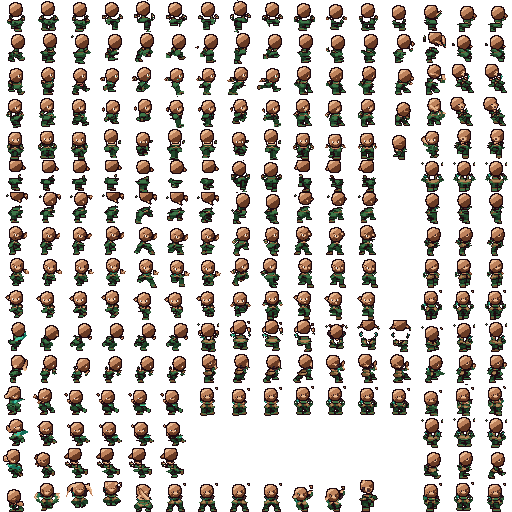
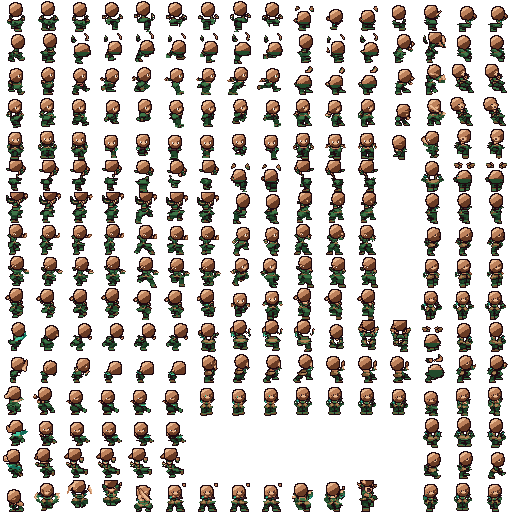
Class heroes walk down with their face on, and are drawn 15% larger
make_skins.py finds the head from the face, the topmost patch of skin, instead of the sprite's top, which the original's hair bun lifts in two of the four walk-down frames; the face mask, the neck line and the bald head all follow it, so the face is never cut or painted over. Specks of three pixels or fewer that touch nothing are removed with their outline. The game draws a class's sheet HERO_SKIN_DRAW_SCALE (1.15) larger about the feet; the body's size is unchanged.

diff --git a/misc/hero_skins/make_skins.py b/misc/hero_skins/make_skins.py
@@ -296,31 +296,41 @@ def bald_head(cell):
     cx, cy = h
     cell = cell.copy()
     yy, xx = np.mgrid[0:32, 0:32]
-    above_neck = yy + 0.5 < cy + NECK_BELOW_HEAD + 1
-    old = ((xx + 0.5 - cx) / 10.5) ** 2 + ((yy + 0.5 - cy) / 9.5) ** 2 <= 1.0
-    old &= above_neck
     skin = is_col(cell, SKIN)
+    top = sprite_top(cell)
     # NOTE: the sword's streak can cross the head; it stays
     streak = np.zeros((32, 32), bool)
-    top = sprite_top(cell)
+    wide = ((xx + 0.5 - cx) / 10.5) ** 2 + ((yy + 0.5 - cy) / 9.5) ** 2 <= 1.0
     for patch in components(skin):
-        if is_streak(patch, -99, old):
+        if is_streak(patch, -99, wide):
             for y, x in patch:
                 streak[y, x] = True
-    face = (skin | is_col(cell, ACCENT + [WHITE])) & old & ~streak
+    # NOTE: the face is the topmost patch of skin; the head is found from
+    # it, since a hair bun sticking up throws the sprite's top off
+    face_patch = None
+    for patch in components(skin & ~streak):
+        if len(patch) >= 4 and min(y for y, x in patch) <= top + 18:
+            if face_patch is None or min(y for y, x in patch) < min(y for y, x in face_patch):
+                face_patch = patch
+    if face_patch:
+        fy = np.array([y for y, x in face_patch])
+        fx = np.array([x for y, x in face_patch])
+        cy = fy.mean() + 0.5 - BALD_FACE_LIFT - BALD_DROP
+        neck = fy.max() + 1.5
+        box = (yy >= fy.min() - 2) & (yy <= fy.max()) & (xx >= fx.min() - 2) & (xx <= fx.max() + 2)
+        face = box & (skin | is_col(cell, ACCENT + [WHITE])) & ~streak
+    else:
+        neck = cy + NECK_BELOW_HEAD + 1
+        face = np.zeros((32, 32), bool)
+    old = ((xx + 0.5 - cx) / 10.5) ** 2 + ((yy + 0.5 - cy) / 9.5) ** 2 <= 1.0
+    old &= yy + 0.5 < neck
+    face &= yy + 0.5 < neck
     keep = cell.copy()
     gone = old & ~streak & (cell[..., 3] > 0)
     cell[gone] = 0
-    # NOTE: the head goes where the face is, the face on its lower half; a
-    # hair bun sticking up would put it too high. With no face (seen from
-    # behind) it sits a little under the hair's centre
+    # NOTE: the head sits where the face says, the face on its lower half;
+    # seen from behind (no face) a little under the hair's centre
     by = cy + BALD_DROP
-    faces = [p for p in components(skin & ~streak & old)
-             if sum(1 for y, x in p if old[y, x]) * 2 > len(p)]
-    if faces:
-        f = max(faces, key=len)
-        if len(f) >= 4:
-            by = sum(y for y, x in f) / len(f) + 0.5 - BALD_FACE_LIFT
     bx = cx
     nx = (xx + 0.5 - bx) / BALD_RX
     ny = (yy + 0.5 - by) / BALD_RY
@@ -349,6 +359,27 @@ def bald_head(cell):
     for src, mark in zip(SKIN, STREAK):
         cell[streak & is_col(keep, [src])] = mark + (255,)
     return cell
+
+
+# NOTE: a detached bit this small is a left-over speck (a headphone's
+# edge, a strand), not part of the hero
+SPECK_PIXELS = 3
+
+
+def despeck(cell):
+    """removes tiny bits that touch nothing else, with their outline"""
+    op = cell[..., 3] > 0
+    parts = components(op)
+    if len(parts) < 2:
+        return cell
+    biggest = max(len(p) for p in parts)
+    out = cell.copy()
+    for patch in parts:
+        body = [(y, x) for y, x in patch if tuple(cell[y, x, :3]) != OUTLINE]
+        if len(patch) < biggest and len(body) <= SPECK_PIXELS:
+            for y, x in patch:
+                out[y, x] = 0
+    return out
 
 
 def class_cell(cell, pal):
@@ -414,7 +445,7 @@ def class_cell(cell, pal):
         put(ACCENT[1], pants[1], legs)
         for s in SKIN:
             put(s, pants[1], legs)
-    return out
+    return despeck(out)
 
 
 def class_sheet(sheet, pal):

diff --git a/code/client/heroes/hero_skins.cpp b/code/client/heroes/hero_skins.cpp
@@ -4,7 +4,7 @@
    the class and with the hair cut short (misc/hero_skins/make_skins.py),
    loaded from heroes/<class>.png. So only the texture changes: the frames
    are picked by the original's animation table (sim/animations.cpp),
-   with its timing, facings and size. A sheet that fails to load leaves
+   with its timing and facings, drawn HERO_SKIN_DRAW_SCALE larger. A sheet that fails to load leaves
    that class in the original hero. */
 
 #define STB_IMAGE_IMPLEMENTATION
@@ -15,6 +15,10 @@
 #pragma warning(disable: 4244 4456 4457 4701 4702 4996)
 #include "../../third_party/stb_image/stb_image.h"
 #pragma warning(pop)
+
+// NOTE(zoubir): a class's hero is drawn this much larger than the
+// original, about the feet; only the picture grows, not the body
+#define HERO_SKIN_DRAW_SCALE 1.15f
 
 // NOTE(zoubir): the original hero's sheet layout (test_asset_builder.cpp)
 #define HERO_SHEET_PIXELS 512
@@ -75,6 +79,18 @@ AddHeroTextures(assets *Assets, open_gl *OpenGL, memory_arena *TempArena)
         HeroSkinLoaded[Role] = LoadHeroSheet(Assets, OpenGL, TempArena, HeroSkinFileNames[Role],
                                              {AssetType_HeroSkin, Role}, Origin);
     }
+}
+
+// NOTE(zoubir): the size an entity's sprite is drawn at
+inline v2
+SpriteDrawDimensions(world_entity *Entity)
+{
+    v2 Result = Entity->Dimensions;
+    if (Entity->Texture.Type == AssetType_HeroSkin)
+    {
+        Result *= HERO_SKIN_DRAW_SCALE;
+    }
+    return Result;
 }
 
 // NOTE(zoubir): from UpdateEntityUvs: a player in a run takes its class's

diff --git a/code/client/draw_entities.cpp b/code/client/draw_entities.cpp
@@ -204,7 +204,9 @@ DrawEntity(render_context *RenderContext,
     {
         TextureInfo = &GetAssetInfo(Assets, Entity->Texture)->Texture;
         Texture = GetTexture(Assets, OpenGL, AppState, Entity->Texture);
-        v2 Dimensions = Entity->Dimensions * Pose.Scale;
+        // NOTE(zoubir): a class's hero is drawn a little larger
+        // (heroes/hero_skins.cpp)
+        v2 Dimensions = SpriteDrawDimensions(Entity) * Pose.Scale;
         v2 EntityTexturePosition = EntityCameraPosition -
             TextureInfo->Origin * Dimensions;
         EntityTexturePosition.Y -= DrawZ;
